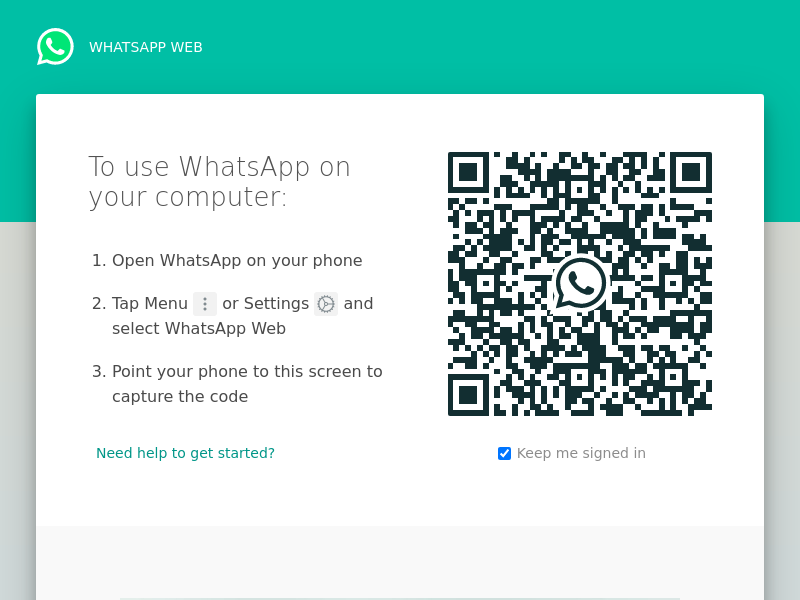
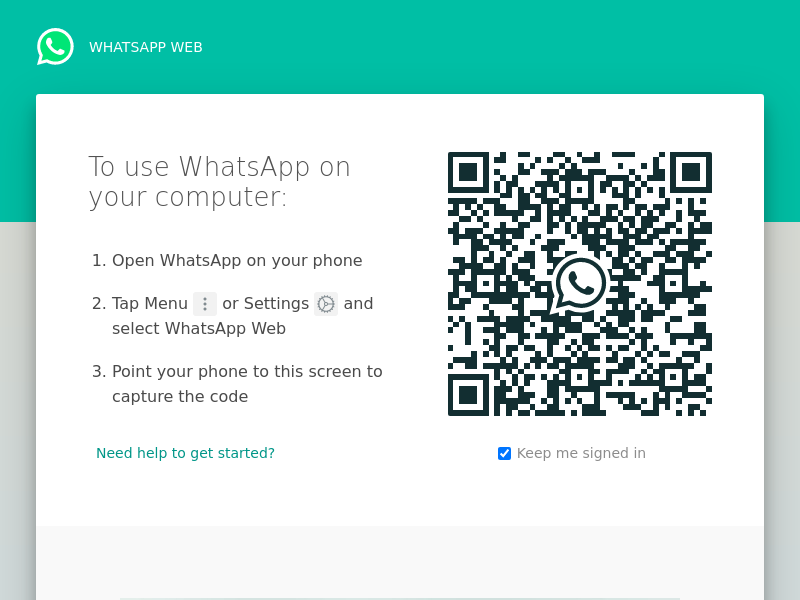
🦁🌚 Checkpoint ./README.md:7762666/35 ./view/index.html:7762666/489

Changed region(s): [[0.5625, 0.24, 0.9062, 0.72]]

diff --git a/view/index.html b/view/index.html
@@ -249,9 +249,14 @@
     
     const Disconnect = ({qr}) =>
       html`
-        <h4>Scan QR using Whatsapp on your Phone</h4>
-        ${qr} && <img src='https://api.qrserver.com/v1/create-qr-code/?size=200x200&data=${qr}'/>
-        <!--<img src='/qr'/>-->
+        <div style="padding:5vh">
+          <h4>Scan QR using Whatsapp on your Phone</h4>
+          ${!qr && html`<h5>Loading...</h5>`}
+          ${qr && html`<img src='https://api.qrserver.com/v1/create-qr-code/?size=200x200&data=${qr}'/>`}
+          <!--<img src='/qr'/>-->
+          <p>QR Code will be refreshed every 30 seconds</p>
+          <a href='https://wa.me/6281331648945?text=WhatsApp Web Multi'>WhatsApp Me for more info</a>
+        </div>
       `;
 
     const Loading = () =>

diff --git a/README.md b/README.md
@@ -1,5 +1,5 @@
 # whatsapp-multi
-A WhatsApp Web Multi clients that can be opened on multiple device browsers
+A WhatsApp Web Multi clients that can be accessed simultaneously on multiple device browsers
 
 **NOTE:** I can't guarantee you will not be blocked by using this method, although it has worked for me. WhatsApp does not allow bots or unofficial clients on their platform, so this shouldn't be considered totally safe.
 
